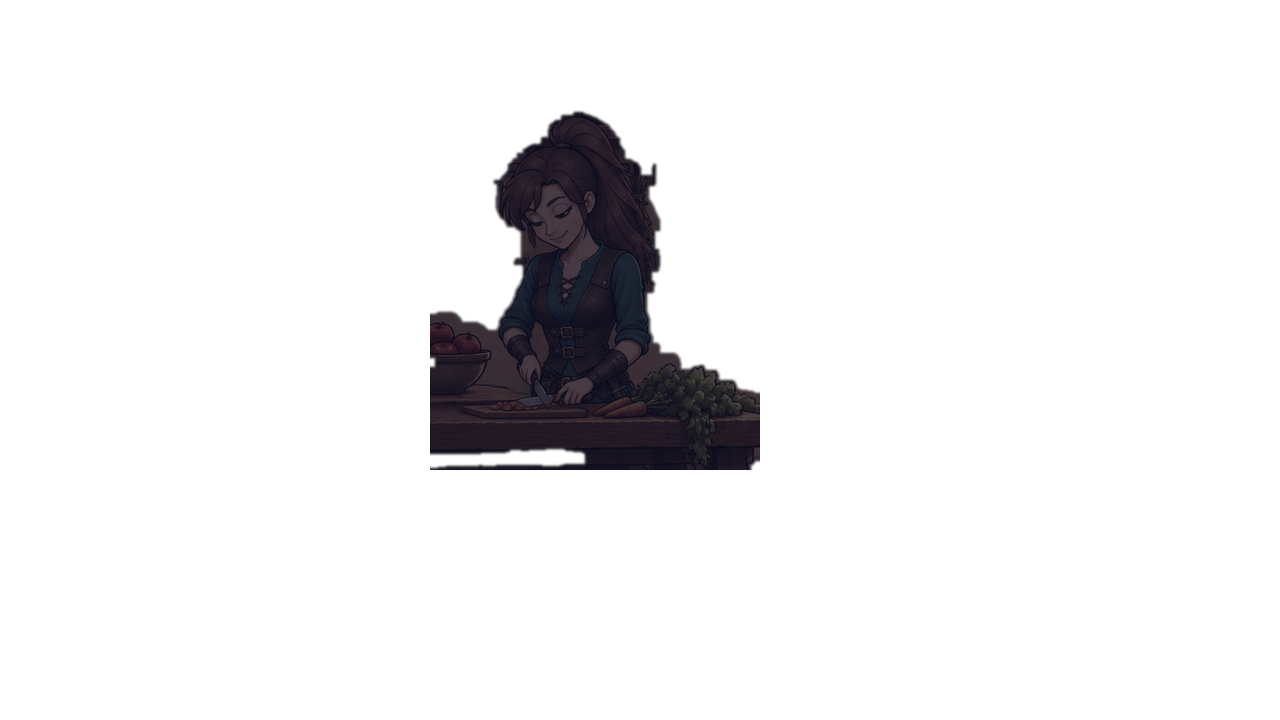
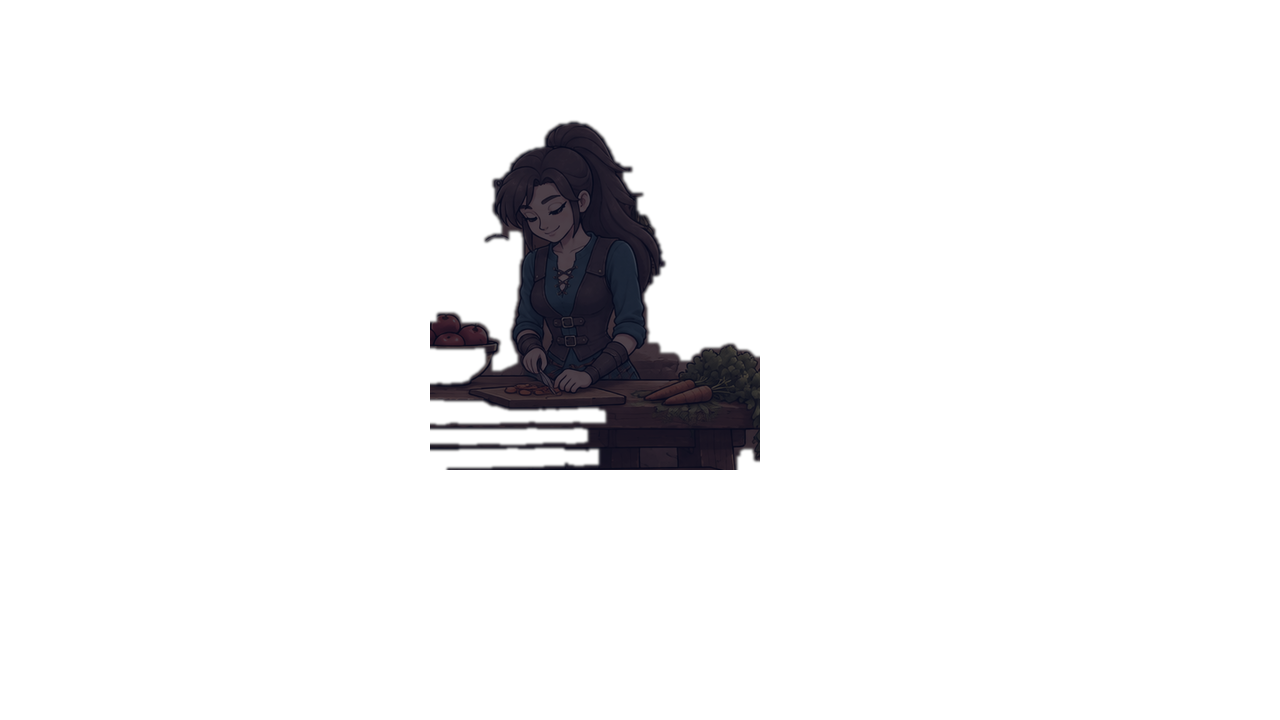
Martha becomes concept 01 (Lena); redo all in-scene NPC pictures
- Martha body and four expressions from concept 01 (Lena)
- kitchen and guild hall scenes redrawn with the new Ruby, tavern with
  the new Martha; every "look" picture now changes only the eyes and
  mouth (glance up), so head size and impression match the busy picture
- new click outlines for the three moved characters
- art_recipes: ids of every picture now in the game, server limits
  (100 a day, 6 a minute); design doc updated for Martha

Claude-Session: https://claude.ai/code/session_01WFgBYsqnPjwxzhWx9BLhU6

Changed region(s): [[0.3125, 0.1528, 0.5938, 0.6722]]

diff --git a/mosshill/tools/art_pipeline.py b/mosshill/tools/art_pipeline.py
@@ -64,7 +64,7 @@ def do_bg(raw):
 CHARS = {
     "ruby":   {"faces": ["happy", "angry", "sad", "surprised", "blink", "talk"], "face_box": (260, 150, 740, 540)},
     "kai":    {"faces": ["happy", "surprised", "sad", "angry", "talk"], "face_box": (400, 140, 730, 480)},
-    "martha": {"faces": ["happy", "angry", "surprised", "talk"],        "face_box": (260, 160, 630, 520)},
+    "martha": {"faces": ["happy", "angry", "surprised", "talk"],        "face_box": (230, 140, 590, 470)},
     "pip":    {"faces": ["happy", "sad", "surprised", "talk"],          "face_box": (300, 380, 630, 740),
                "frame": (1.3, 427)},
     "gregor": {"faces": ["happy", "angry", "talk"],                     "face_box": (290, 110, 620, 480)},

diff --git a/mosshill/tools/art_recipes.md b/mosshill/tools/art_recipes.md
@@ -12,7 +12,7 @@
 | 루비 (예전) | `img_mwjcm7u5W3q5maZ1` | 붓칠이 부드러운 예전 그림체 — 쓰지 않음 |
 | **배경 화풍 기준 — 길드 홀** | `img_mwjzz6ejUwIEo3A9` | 모든 배경에 넣는다 |
 | 카이 | `img_mwk04ey99961j7GF` | 몸 (오른쪽을 봄) |
-| 마르타 (예전) | `img_mwk04p3zc4tZ1Zln` | 루비와 닮아서 교체 예정 |
+| 마르타 (예전) | `img_mwk04p3zc4tZ1Zln` | 루비와 닮아서 교체됨 → 지금 마르타는 콘셉트 01 레나 |
 | 마르타 새 후보 A / B / C | `img_mwk3t4rvcZF5sLeh` / `img_mwk3tedn5xGs0gof` / `img_mwk3tqbznKRo5MH0` | A 은퇴한 모험가 / B 푸근한 아줌마 / C 키 큰 무뚝뚝한 사장 |
 | 마르타 성숙한 후보 1 / 2 | `img_mwk4etfk9wjDt7JE` / `img_mwk4f33wxOsIhdvF` | 1 화려한 사장님 / 2 다정하게 놀리는 누님 |
 | 마르타 매혹적인 후보 3 / 4 | `img_mwk4iohqq12tH346` / `img_mwk4iwruJiDxqgw5` | 3 = 1번을 고쳐 분위기만 (머리 만지는 손, 나른한 눈) / 4 = 1번 얼굴 견본으로 새로 |
@@ -78,18 +78,16 @@
 | 장면 인물 눈 색이 바뀜 | 인물 견본 없이 얼굴을 다시 그림 | 인물 몸을 2번 견본으로 넣는다 |
 | 영역 지정(마스크) 편집 실패 | 이미지 서버가 마스크를 거부 ("Invalid image data") | 마스크 없이 "~만 바꿔"로 그리고 `art_pipeline.py` 가 바뀐 곳만 오린다 |
 
-## 5. 다음에 이어서 할 생성 (2026-11-17, 이미지 서버 하루 호출 한도 100회에 걸려 멈춤)
+## 5. 지금 게임에 들어간 그림의 원본 id (2026-11-17)
 
-마르타 = 콘셉트 01 레나 (`img_mwk4pph0U68HMxxT`). 이름은 그대로 '마르타'. 모든 프롬프트는 3장의 틀(ROLES/KEEP/CHANGE/STYLE/AVOID)로.
+| 그림 | id |
+|---|---|
+| 마르타 몸 (= 콘셉트 01 레나) | `img_mwk4pph0U68HMxxT` |
+| 마르타 표정 기쁨 / 화남 / 놀람 / 말하기 | `img_mwk5fs1nykP7cvOp` / `img_mwk5gla19Zqx0u4w` / `img_mwk5gvn65H1AW9uM` / `img_mwk5h46bAJqzY5hq` |
+| 부엌 루비 하던 일 / 앞을 봄 | `img_mwk5hezcIrN7DtBx` / `img_mwk5jczt53x58vs3` |
+| 길드 홀 루비 하던 일 / 앞을 봄 | `img_mwk5hr8xDOZxF9XX` / `img_mwk5jmu6Kyg4DqKt` |
+| 선술집 마르타 하던 일 / 앞을 봄 | `img_mwk5j435FcIsnrxc` / `img_mwk5km91c4vFLr9N` |
+| 잡화점 핍 하던 일 / 앞을 봄 | `img_mwk33ey2wlWuSMdW` / `img_mwk5jw0haA2K3O6t` |
+| 광장 핍 하던 일 / 앞을 봄 | `img_mwk33ndtudBcVSua` / `img_mwk5k5pahNQbqgsf` |
 
-| 순서 | 만들 것 | 1번 (고칠 대상) | 견본 | 바꿀 것 |
-|---|---|---|---|---|
-| 1~4 | 마르타 표정 기쁨·화남·놀람·말하기 | 레나 | 카이 (그림체) | 표정만 (말하기는 입만 — 기본 얼굴이 이미 활짝 웃는 입이라 '말하는 둥근 입'으로) |
-| 5 | 부엌 루비 '하던 일' | 부엌 배경 `img_mwk00ppuKfGbnYrw` | 새 루비 `img_mwk42de2VhNaQR34` + 카이 | 식탁 뒤에서 당근 썰기, 고개 숙이고 도마를 봄 |
-| 6 | 길드 홀 루비 '하던 일' | 길드 홀 `img_mwjzz6ejUwIEo3A9` | 새 루비 + 카이 | 의자에 앉아 무릎 위 칼을 닦음, 칼날을 봄 |
-| 7 | 선술집 마르타 '하던 일' | 선술집 `img_mwk01nibyD82wGX9` | 레나 + 카이 | 바 뒤에서 잔을 닦음, 잔을 봄 |
-| 8~9 | 잡화점·광장 핍 '앞을 봄' | 핍 하던 일 장면 `img_mwk33ey2wlWuSMdW` / `img_mwk33ndtudBcVSua` | 핍 몸 `img_mwk04yuwDl5LkiiB` | 눈과 입만 — 고개는 그대로, 눈만 들어 앞을 보고 작은 미소 |
-| 10~12 | 5·6·7 의 '앞을 봄' | 5·6·7 결과 | 그 인물 몸 | 8~9 와 같음 |
-
-생성 뒤 할 일: `원본폴더/martha.png` 를 레나로 바꾸고 `art_pipeline.py` 의 마르타 `face_box` 를 다시 잰다 → `sprite face` (점검용 그림 확인) →
-장면 5곳 `scene_<장소>_<인물>_busy/look.png` 교체 → `art_scenes.json` 의 box·shape 를 새 인물 위치로 다시 잰다 → `scene` → 전체 자동 검사.
+이미지 서버 제한: **하루 100회, 분당 6회**. 여러 장은 6장씩 나눠 보낸다.

diff --git a/docs/game-design.md b/docs/game-design.md
@@ -44,7 +44,7 @@
 |---|---|---|---|
 | **주인공** (이름 입력, 기본 "카이") | 플레이어. 길드를 물려받은 초보 모험가 | 말수 적은 츳코미 담당 | 대화용 스프라이트 1종 + 표정 4 |
 | **루비** | 첫 동료 겸 히로인. 길드 유일 멤버, 검사 | 밝고 의욕 넘치지만 덜렁댐 | **기존 에셋 사용** (몸 1 + 표정 6) |
-| **마르타** | 선술집 '졸린 곰' 주인. 의뢰 게시판 관리 | 털털한 큰누나, 잔소리꾼 | 몸 1 + 표정 4 |
+| **마르타** | 선술집 '졸린 곰' 주인 (28세). 의뢰 게시판 관리 | 털털하고 장난기 많은 누나, 잔소리꾼. 금발 땋은 머리·주근깨 (콘셉트 01 레나) | 몸 1 + 표정 4 |
 | **핍** | 잡화점 주인. 하프링 상인 | 수다쟁이, 돈 계산에 밝음 | 몸 1 + 표정 4 |
 | **그레고르** | 협회 감사관. 3일차에 등장 | 깐깐하지만 공정함 | 몸 1 + 표정 3 |
 
